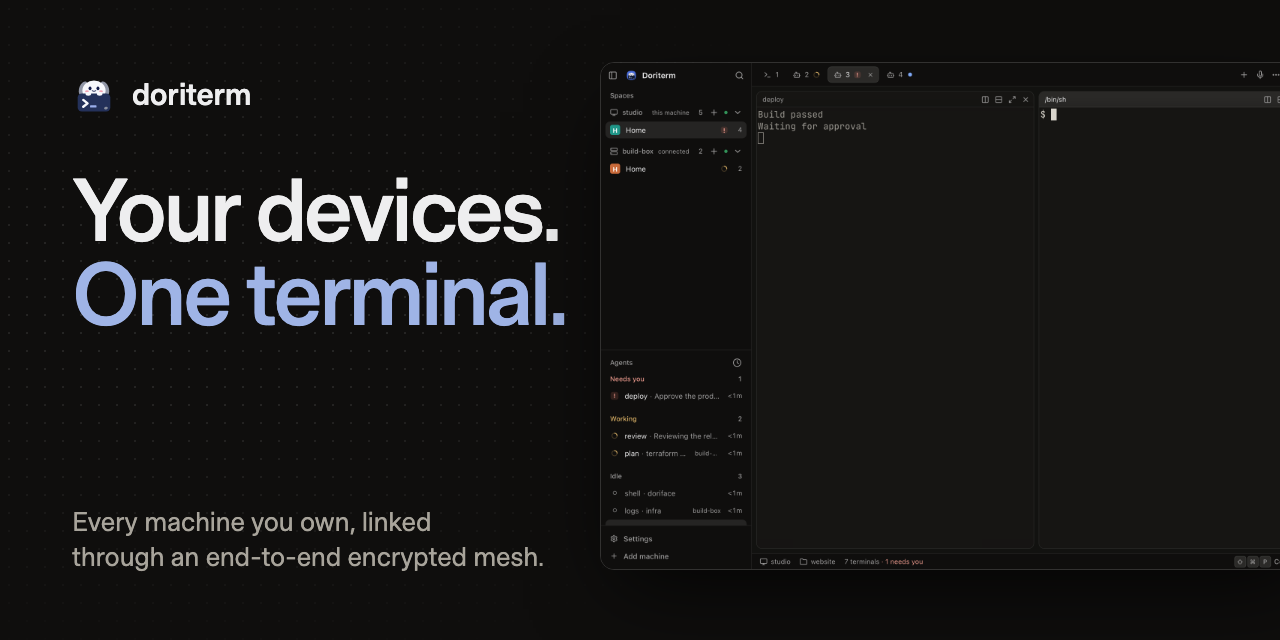
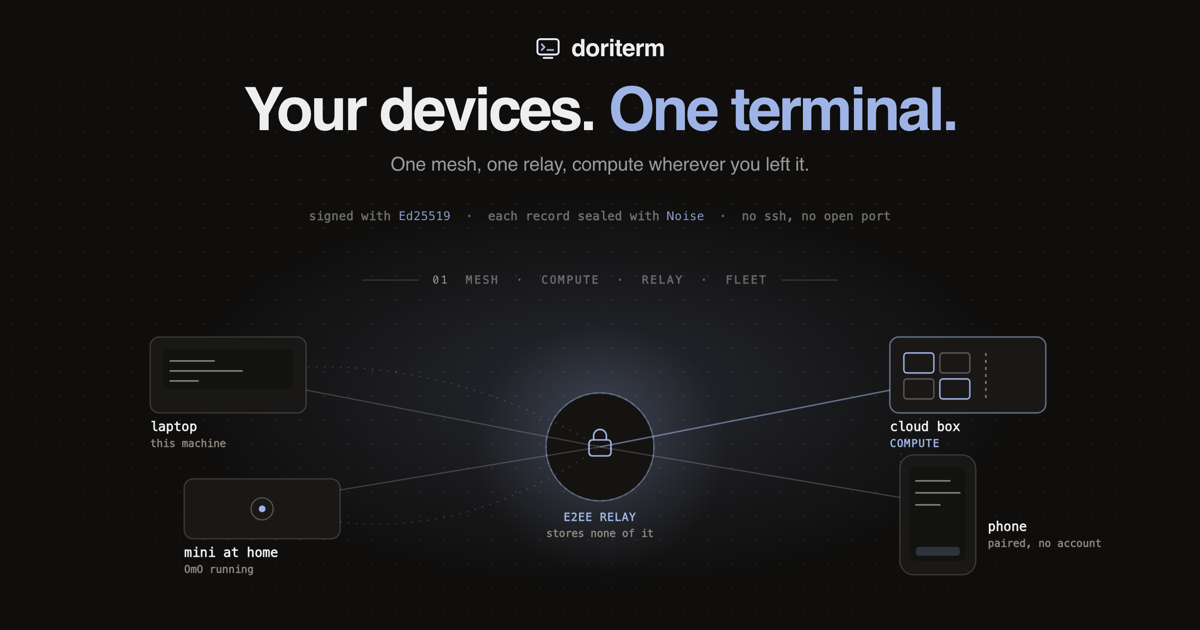
docs(og): the mesh card, in Timeless Sans, with the cache-busting hash bumped in both sites

diff --git a/apps/web/index.html b/apps/web/index.html
@@ -9,15 +9,15 @@
     <meta property="og:title" content="Doriterm: Your devices. One terminal." />
     <meta property="og:description" content="Open Doriterm in your browser. Every machine you own, in one tab." />
     <meta property="og:url" content="https://app.doriterm.com/" />
-    <meta property="og:image" content="https://doriterm.com/og.png?v=f444389c" />
+    <meta property="og:image" content="https://doriterm.com/og.png?v=51c04b8d" />
     <meta property="og:image:width" content="1200" />
     <meta property="og:image:height" content="630" />
-    <meta property="og:image:alt" content="Doriterm: Your devices. One terminal., beside the app window." />
+    <meta property="og:image:alt" content="Doriterm: Your devices. One terminal. Above it, a mesh of four machines joined through one end-to-end encrypted relay." />
     <meta name="twitter:card" content="summary_large_image" />
     <meta name="twitter:title" content="Doriterm: Your devices. One terminal." />
     <meta name="twitter:description" content="Open Doriterm in your browser. Every machine you own, in one tab." />
-    <meta name="twitter:image" content="https://doriterm.com/og.png?v=f444389c" />
-    <meta name="twitter:image:alt" content="Doriterm: Your devices. One terminal., beside the app window." />
+    <meta name="twitter:image" content="https://doriterm.com/og.png?v=51c04b8d" />
+    <meta name="twitter:image:alt" content="Doriterm: Your devices. One terminal. Above it, a mesh of four machines joined through one end-to-end encrypted relay." />
     <link rel="icon" href="/favicon.svg" type="image/svg+xml" />
     <link rel="icon" href="/favicon-32.png" sizes="32x32" type="image/png" />
     <link rel="icon" href="/favicon-16.png" sizes="16x16" type="image/png" />

diff --git a/apps/landing/index.html b/apps/landing/index.html
@@ -14,13 +14,13 @@
     <meta property="og:description" content="Every machine you own, linked through an end-to-end encrypted mesh." />
     <meta property="og:url" content="https://doriterm.com/" />
     <meta property="og:type" content="website" />
-    <meta property="og:image" content="https://doriterm.com/og.png?v=f444389c" />
+    <meta property="og:image" content="https://doriterm.com/og.png?v=51c04b8d" />
     <meta property="og:image:width" content="1200" />
     <meta property="og:image:height" content="630" />
-    <meta property="og:image:alt" content="Doriterm: Your devices. One terminal., beside the app window." />
+    <meta property="og:image:alt" content="Doriterm: Your devices. One terminal. Above it, a mesh of four machines joined through one end-to-end encrypted relay." />
     <meta name="twitter:card" content="summary_large_image" />
-    <meta name="twitter:image" content="https://doriterm.com/og.png?v=f444389c" />
-    <meta name="twitter:image:alt" content="Doriterm: Your devices. One terminal., beside the app window." />
+    <meta name="twitter:image" content="https://doriterm.com/og.png?v=51c04b8d" />
+    <meta name="twitter:image:alt" content="Doriterm: Your devices. One terminal. Above it, a mesh of four machines joined through one end-to-end encrypted relay." />
     <link rel="canonical" href="https://doriterm.com/" />
     <link rel="apple-touch-icon" href="/apple-touch-icon.png" />
     <link rel="icon" href="/favicon.svg" type="image/svg+xml" />
